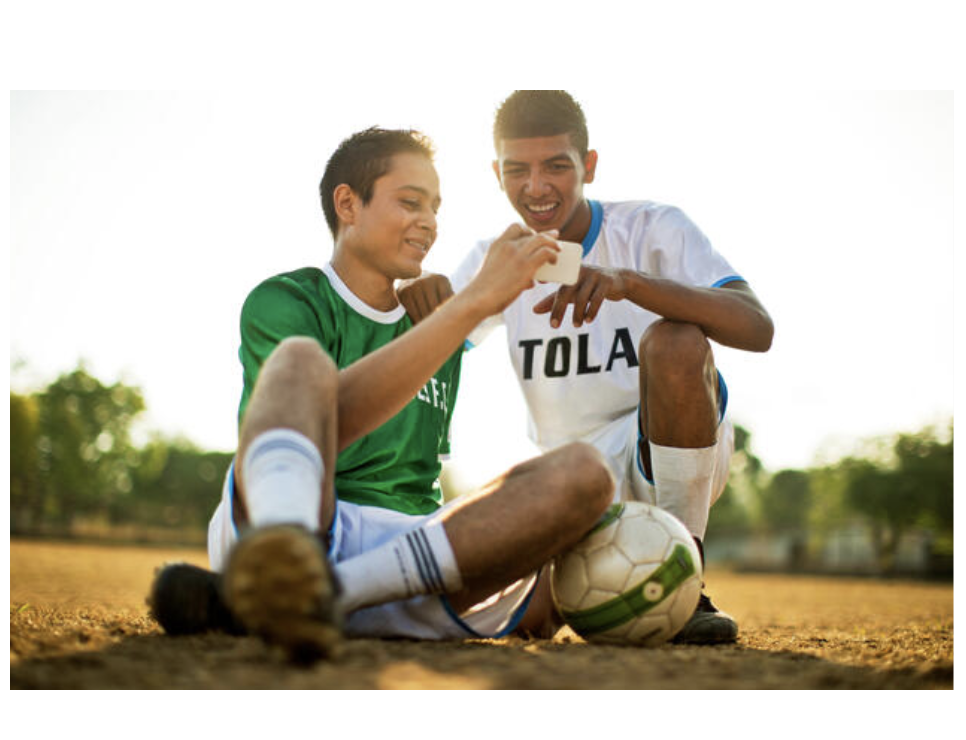
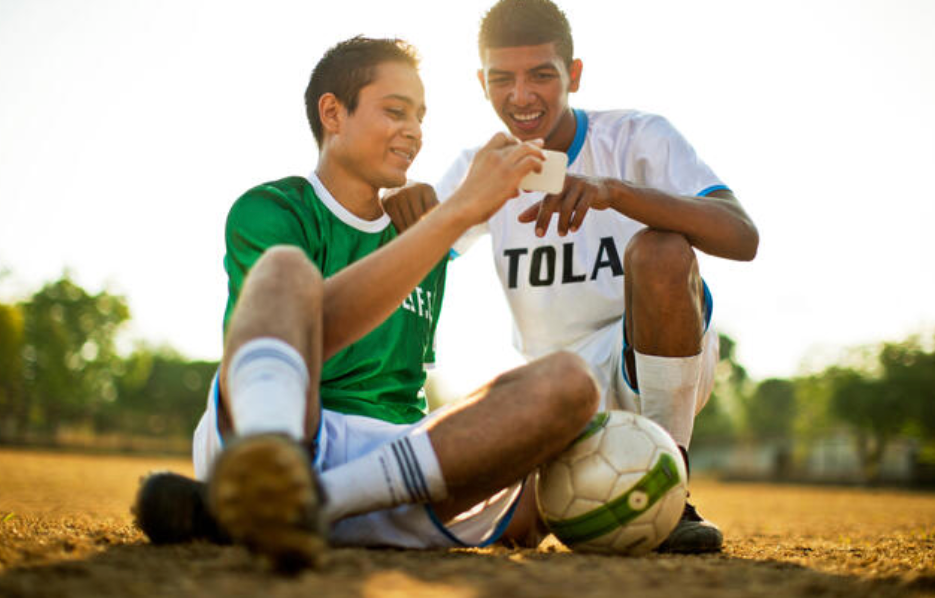
adjusted image dimns and margins etc

diff --git a/client/core/NonUserHome.js b/client/core/NonUserHome.js
@@ -22,7 +22,8 @@ import { NAVBAR_HEIGHT } from "./websiteConstants";
 import PeopleWithQuotes from './PeopleWithQuotes';
 import SVGImage from "./SVGImage";
 import { makeStyles } from '@material-ui/core/styles'
-import { MAIN_BANNER_MARGIN_VERT, COLOURS, scrollIntoViewWithOffset } from "./websiteConstants";
+import { MAIN_BANNER_MARGIN_VERT, COLOURS } from "./websiteConstants";
+import { scrollIntoViewWithOffset } from "./websiteHelpers";
 import Players from "./Players"
 import DataSection from './DataSection';
 import CompatibilityInfo from './CompatibilityInfo';
@@ -31,28 +32,28 @@ import overheadBanner from '../../assets/website/banners/overhead-kick.png';
 const playersImageDimns = screen => {
   if(screen.isSmall){
     return {
-      rawImgWidth:400,//550, //900 - full img
-      rawImgHeight:800,//1040,  //900 - full img
-      imgTransX:-270,//-100, 
-      imgTransY:-90,//-55,
-      aspectRatio:0.9
+      rawImgWidth:935,
+      rawImgHeight:598,
+      scale:1.7,
+      imgTransX:-screen.width / 2.6,
+      aspectRatio:0.7
     }
   }
   if(screen.isMedium){
     return {
-      rawImgWidth:550, //900 - full img
-      rawImgHeight:1040,  //900 - full img
-      imgTransX:-165, 
-      imgTransY:-90,
-      aspectRatio:1
+      rawImgWidth:935,
+      rawImgHeight:598,
+      scale:1.7,
+      imgTransX:-screen.width / 5,
+      aspectRatio:0.9
     }
   }
   //lg-up
   return {
-    rawImgWidth:600, //900 - full img
-    rawImgHeight:1040,  //900 - full img
-    imgTransX:-170, 
-    imgTransY:-90,
+    rawImgWidth:935,
+    rawImgHeight:598,
+    scale:1.7,
+    imgTransX:-screen.width / 5,
     aspectRatio:0.9
   }
 }
@@ -61,26 +62,26 @@ const playersImageDimns = screen => {
 const staffImageDimns = screen => {
   if(screen.isSmall){
     return {
-      rawImgWidth:800, //900 - full img
-      rawImgHeight:900,  //900 - full img
-      imgTransX:-90, 
+      rawImgWidth:800,
+      rawImgHeight:900, 
+      imgTransX:-screen.width / 4.3, 
       imgTransY:0,
-      aspectRatio:0.9
+      aspectRatio:0.73
     }
   }
   if(screen.isMedium){
     return {
-      rawImgWidth:800, //900 - full img
-      rawImgHeight:900,  //900 - full img
-      imgTransX:-80, 
+      rawImgWidth:800,
+      rawImgHeight:900, 
+      imgTransX:-screen.width / 8,
       imgTransY:0,
       aspectRatio:1.1
     }
   }
   //lg-up
   return {
-    rawImgWidth:900, //900 - full img
-    rawImgHeight:900,  //900 - full img
+    rawImgWidth:900,
+    rawImgHeight:900, 
     imgTransX:-80, 
     imgTransY:0,
     aspectRatio:0.9
@@ -121,6 +122,10 @@ const useStyles = makeStyles(theme => ({
   topDisplay:{
     padding:`${NAVBAR_HEIGHT}px 7.5vw 0`,
     minHeight:`calc(100vh + 100px)`,
+    [theme.breakpoints.down('md')]: {
+      padding:`${NAVBAR_HEIGHT}px 0 0`,
+      //fontSize:"40px"
+    },
     backgroundColor: `${COLOURS.banner.bg}`,
     //border:"solid",
     borderColor:"blue"

diff --git a/client/core/CompatibilityInfo.js b/client/core/CompatibilityInfo.js
@@ -7,15 +7,16 @@ import { grey10, MAIN_BANNER_MARGIN_VERT, NAVBAR_HEIGHT } from "./websiteConstan
 const useStyles = makeStyles(theme => ({
     compatibilityInfoRoot:{
         width:"700px",
-        [theme.breakpoints.down('sm')]: {
-          width:"100%",
-          maxWidth:"300px",
-        },
         height:`${NAVBAR_HEIGHT}px`,
+        [theme.breakpoints.down('sm')]: {
+          width:"90%",
+          maxWidth:"350px",
+          height:`${NAVBAR_HEIGHT + 25}px`,
+          margin:"30px auto 50px"
+
+        },
         background:"transparent",
         //border:"solid",
-        padding:"0",
-        marginBottom:props => props.className === "sm-down" ? "50px" : 0
     },
     listLabel:{
         height:"20px", 
@@ -48,7 +49,7 @@ const useStyles = makeStyles(theme => ({
         fontSize:"11px", 
         color:grey10(4),
         [theme.breakpoints.down('sm')]: {
-          fontSize:"12px",
+          fontSize:"14px",
           color:grey10(5),
           margin:"5px"
         },
@@ -56,11 +57,11 @@ const useStyles = makeStyles(theme => ({
     col1Item:{
         width:"80px",
         [theme.breakpoints.down('sm')]: {
-          width:"95px"
+          width:"110px"
         }
     },
     col2Item:{
-        width:"30px"
+        width:"30px",
     },
     col3Item:{
         width:"40px"
@@ -70,9 +71,9 @@ const useStyles = makeStyles(theme => ({
     }
 }))
 
-const singleRowItems = ["Kitman labs", "Session Planner", "Hudl", "Excel", "Word", "PDF", "GDrive", "SQL"]
-const row1Items = ["Kitman labs", "Hudl", "Excel", "PDF"]
-const row2Items = ["Session Planner", "Hudl", "Word", "GDrive", "SQL"]
+const singleRowItems = ["Kitman Labs", "Session Planner", "Hudl", "Excel", "Word", "PDF", "GDrive", "SQL"]
+const row1Items = ["Kitman Labs", "Hudl", "Excel", "PDF"]
+const row2Items = ["Session Planner", "GDrive", "Word", "SQL"]
 const rows = [row1Items, row2Items]
 const getColClassname = i => `col${i + 1}Item`;
 

diff --git a/client/core/PeopleWithQuotes.js b/client/core/PeopleWithQuotes.js
@@ -4,6 +4,7 @@ import { makeStyles } from '@material-ui/core/styles'
 
 import Quote from './Quote';
 import SVGImage from './SVGImage';
+import Image from "./Image";
 import { PEOPLE_WITH_QUOTES } from './websiteConstants';
 
 const useStyles = makeStyles(theme => ({
@@ -34,12 +35,11 @@ const useStyles = makeStyles(theme => ({
         //display:"flex",
         //justifyContent:"center",
         //border:'solid',
-        borderColor:"black",
-        background:"pink",
+        borderColor:"blue",
+        background:"yellow",
         [theme.breakpoints.down('sm')]: {
             width:"100vw",
             height:props => `${props.aspectRatio * 100}vw`,
-            borderColor:"blue",
         },
     },
     titleAndQuotesContainer:{
@@ -63,7 +63,7 @@ const useStyles = makeStyles(theme => ({
             width:"100vw",
             height:() => "500px",
             padding:"10px 0 50px",
-            borderColor:"blue",
+            borderColor:"yellow",
         },
     },
     title:{
@@ -106,7 +106,9 @@ const PeopleWithQuotes = ({ title, data, direction }) =>{
     return (
         <div className={classes.peopleWithQuotesRoot}>
             <div className={classes.peopleContainer}>
-                {<SVGImage image={image} imgKey={key} />}
+                <SVGImage image={image} imgKey={key} />
+                {/**<Image image={image} imgKey={key} />*/}
+
             </div>
             <div className={classes.titleAndQuotesContainer}>
                 {title && <div className={classes.title}>{title}</div>}

diff --git a/client/core/SVGImage.js b/client/core/SVGImage.js
@@ -9,7 +9,7 @@ import { makeStyles } from '@material-ui/core/styles'
 const useStyles = makeStyles(theme => ({
   imageSvg: {
       //border:"solid",
-      borderColor:"yellow",
+      borderColor:"blue",
   }
 }))
 
@@ -26,7 +26,7 @@ const SVGImage = ({ imgKey, image, fixedDimns, styles, className, settings }) =>
     const classes = useStyles(styleProps);
     const [svgImage, setImageComponent] = useState(() => imageComponent());
 
-    const { aspectRatio, rawImgWidth=dimns.width, imgTransX=0, imgTransY=0  } = image;
+    const { aspectRatio, rawImgWidth=dimns.width, imgTransX=0, imgTransY=0, scale  } = image;
     
 
     useEffect(() => {
@@ -51,7 +51,7 @@ const SVGImage = ({ imgKey, image, fixedDimns, styles, className, settings }) =>
     useEffect(() => {
         //calc the transform required
         //@todo - impl option to scale y separately based on height
-        const imgScale = dimns.width / rawImgWidth;
+        const imgScale = (dimns.width / rawImgWidth) * (scale || 1);
         const imgTransform = `translate(${imgTransX},${imgTransY}) scale(${imgScale})`;
 
         d3.select(containerRef.current)

diff --git a/client/core/Image.js b/client/core/Image.js
@@ -1,0 +1,47 @@
+import React, { Fragment, useState, useEffect, useRef } from 'react';
+import * as d3 from 'd3';
+import imageComponent from './imageComponent';
+import { isNumber } from '../data/dataHelpers';
+
+
+import { makeStyles } from '@material-ui/core/styles'
+
+const useStyles = makeStyles(theme => ({
+  imageSvg: {
+      border:"solid",
+      borderColor:"blue",
+      display:"flex",
+      alignItems:"flex-start"
+  }
+}))
+
+//@todo - add proper window event listener
+const Image = ({ imgKey, image, fixedDimns, styles, className, settings }) =>{
+    const styleProps = { };
+    const classes = useStyles(styleProps);
+    
+    const { url } = image;
+    //const imgScale = image.dimns.width / rawImgWidth;
+    //const imgTransform = `translate(${imgTransX},${imgTransY}) scale(${imgScale})`;
+
+    return (
+        <div>
+            hello
+            <img
+            src={url}
+            />
+        </div>
+        
+    )
+}
+
+Image.defaultProps = {
+    imgKey:"",
+    image:{},
+    styles:{ root:{} },
+    settings:{
+    },
+    className:""
+  }
+  
+export default Image;

diff --git a/client/templates/containers/AgencyModern/Banner/banner.style.js b/client/templates/containers/AgencyModern/Banner/banner.style.js
@@ -9,6 +9,7 @@ import { MAIN_BANNER_MARGIN_VERT, COLOURS, NAVBAR_HEIGHT } from '../../../../cor
 //#f0ded5
 const BannerWrapper = styled.div`
   //border: solid;
+  border-color:white;
   //background-image: url(${bannerBg?.src});
   //background-color: ${COLOURS.banner.bg};
   background-size: 100%;
@@ -29,8 +30,11 @@ const BannerWrapper = styled.div`
   }
   @media only screen and (max-width: 768px) {
     flex-direction: column;
+    flex-direction:column;
+    justify-content:flex-start;
+    height:auto;
     min-height: auto;
-    padding-top:130px;
+    padding-top:70px;
     padding-bottom:0;
   }
   .banner-image-area {
@@ -46,7 +50,7 @@ const BannerWrapper = styled.div`
   .banner-caption-area-sm {
     //border:solid;
     width:300px;
-    margin:60px auto 20px;
+    margin:40px auto;
     padding-left:20px;
   }
   .banner-caption {

diff --git a/client/core/storyAnimationComponent.js b/client/core/storyAnimationComponent.js
@@ -92,7 +92,6 @@ export default function storyAnimationComponent() {
     let fontSizes = {};
 
     function updateDimns(){
-        console.log("w h", width, height)
         margin = { left: width * 0, right:width * 0, top: height * 0, bottom: height * 0 }
 
         scaledContentsWidth = width - margin.left - margin.right;
@@ -100,7 +99,6 @@ export default function storyAnimationComponent() {
         const aspectRatio = height / width || 1;
         contentsWidth = fixedContentsHeight / aspectRatio;
         scaleK = scaledContentsHeight / fixedContentsHeight;
-        console.log("scaleK", scaleK)
 
         heroesWidth = d3.max([55, contentsWidth * 0.2]);
         charactersWidth = d3.max([70, contentsWidth * 0.2]);

diff --git a/client/templates/containers/AgencyModern/Customer/index.js b/client/templates/containers/AgencyModern/Customer/index.js
@@ -79,7 +79,7 @@ const Customer = ({ data, screen, direction, minHeight }) => {
             <div>
               {typeof heading !== "string" && 
                 <>
-                  <div style={{ width:"100%", height:"20px" }}></div>
+                  <div style={{ width:"100%", height:visual.type === "img" ? "50px" : "20px" }}></div>
                   <Heading
                     as="h3"
                     content={heading[0] || ""}

diff --git a/client/core/Players.js b/client/core/Players.js
@@ -28,7 +28,7 @@ const mainImageSmall = {
 const useStyles = makeStyles(theme => ({
   playersRoot:{
     width:"100%",
-    padding:"15vh 0",
+    padding:"15vh 0 10vh",
     background:"#1E1E1E",
   },
   topBanner:{
